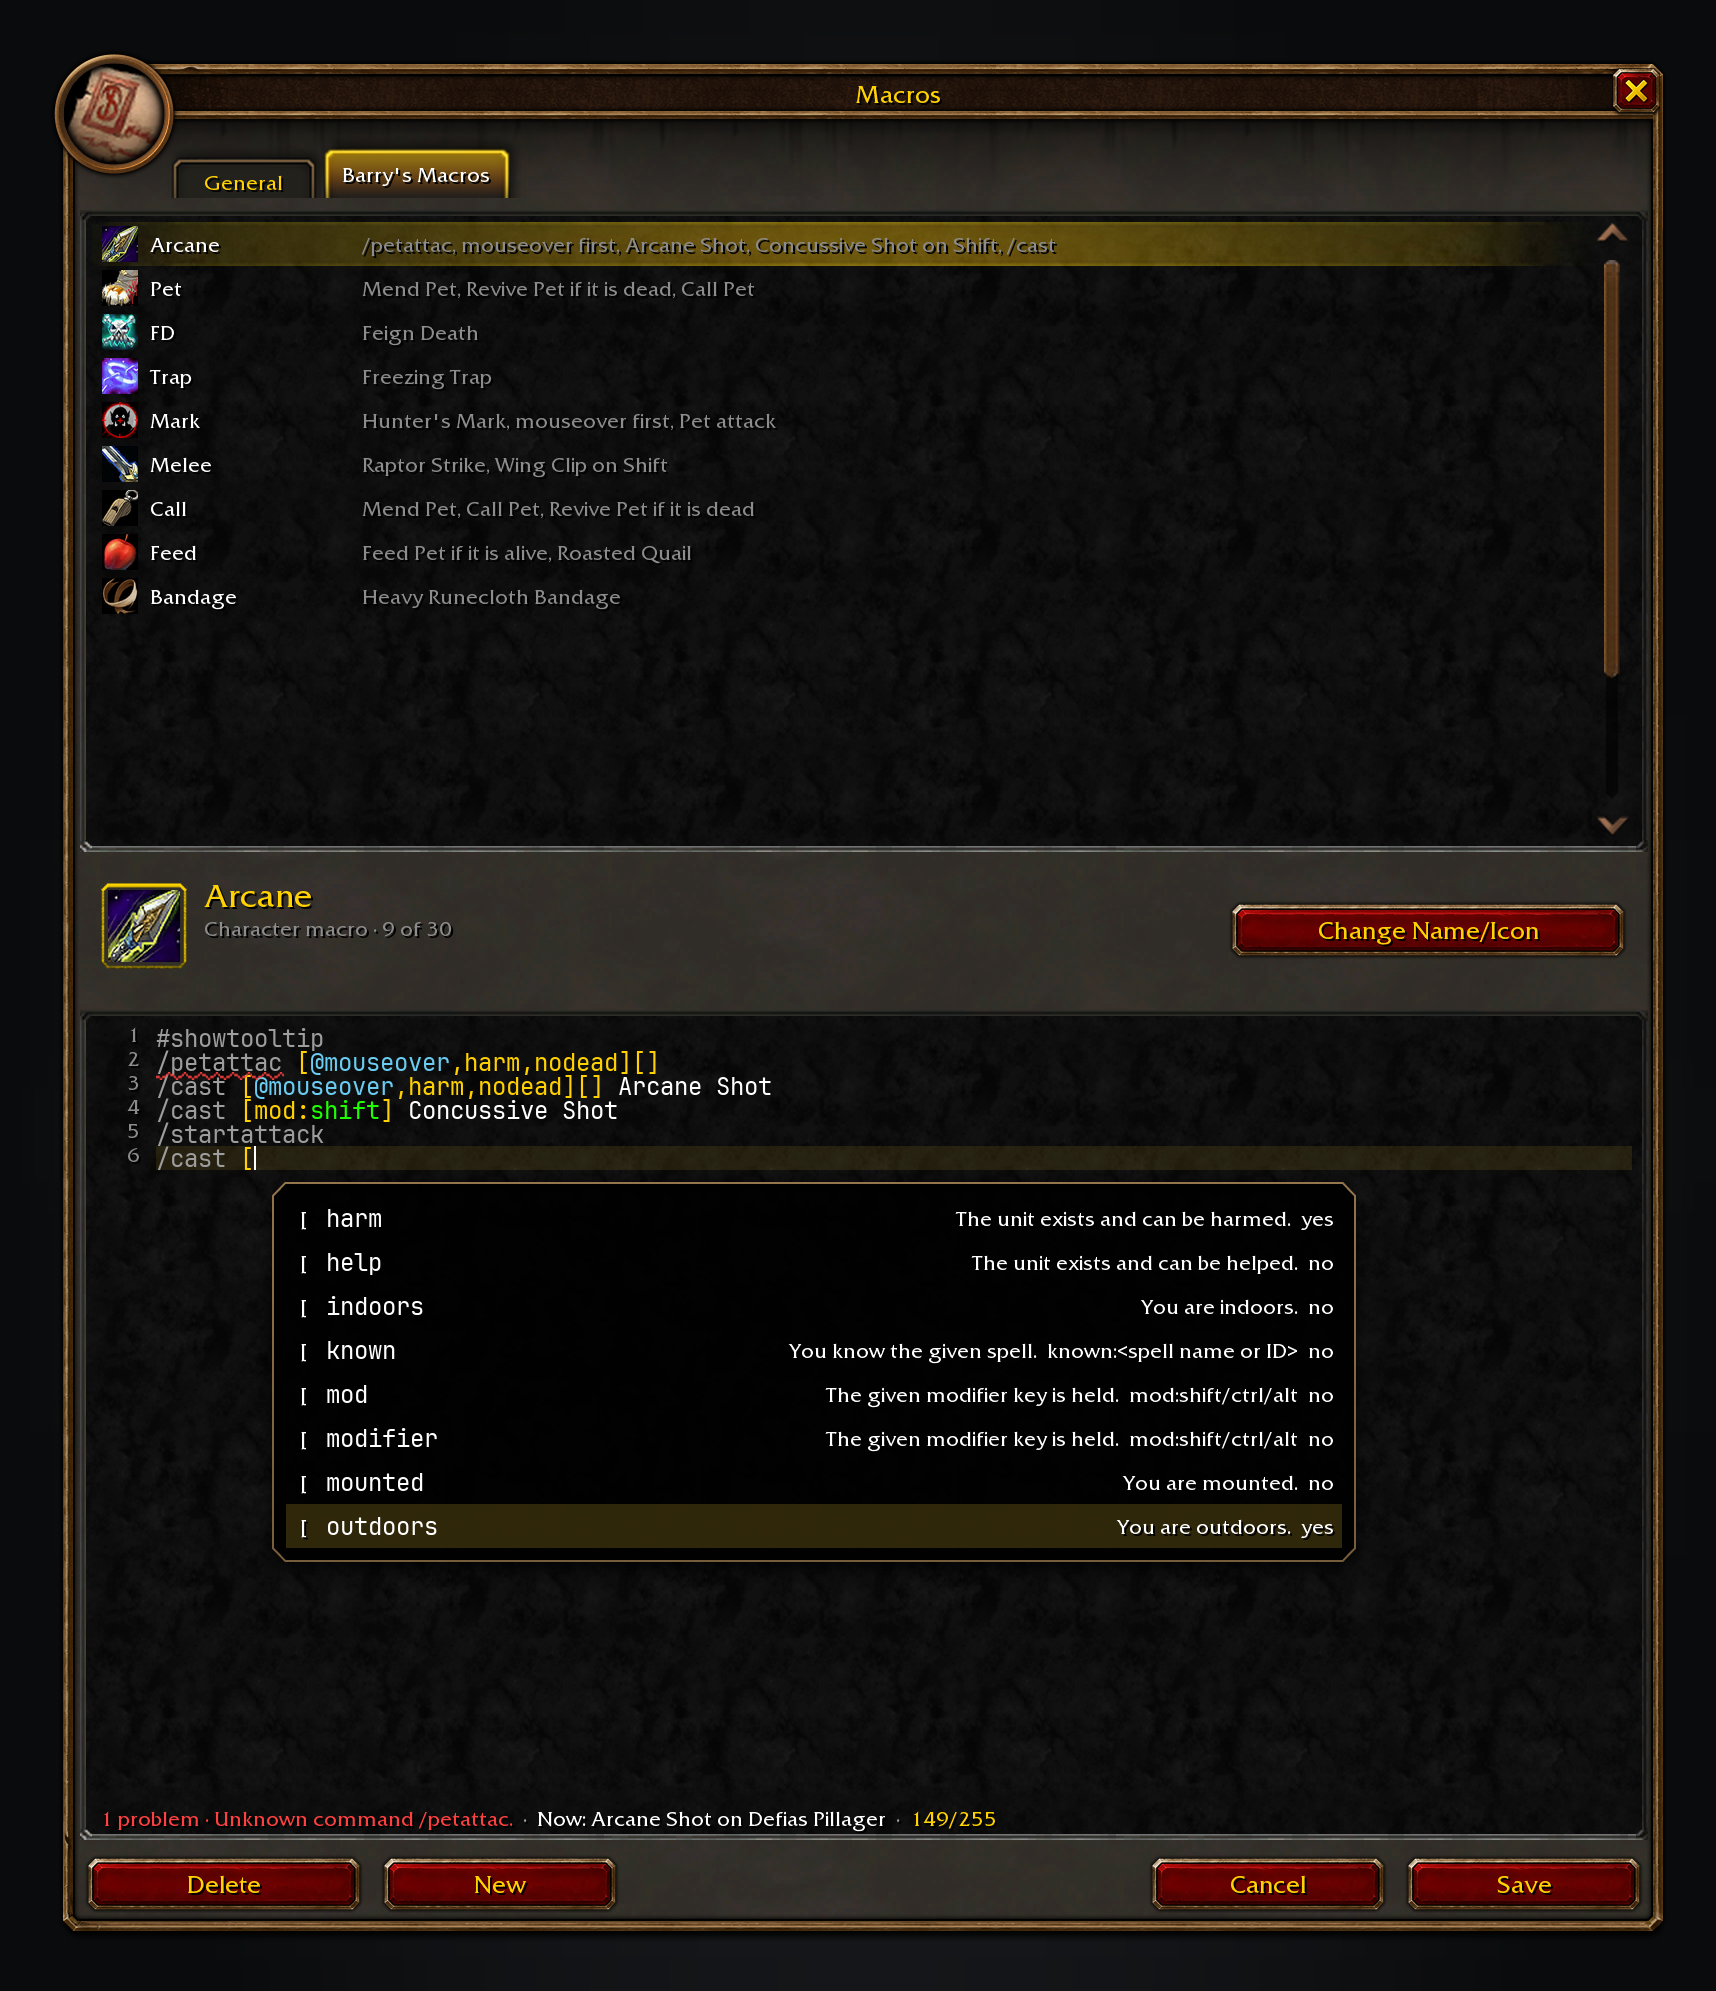
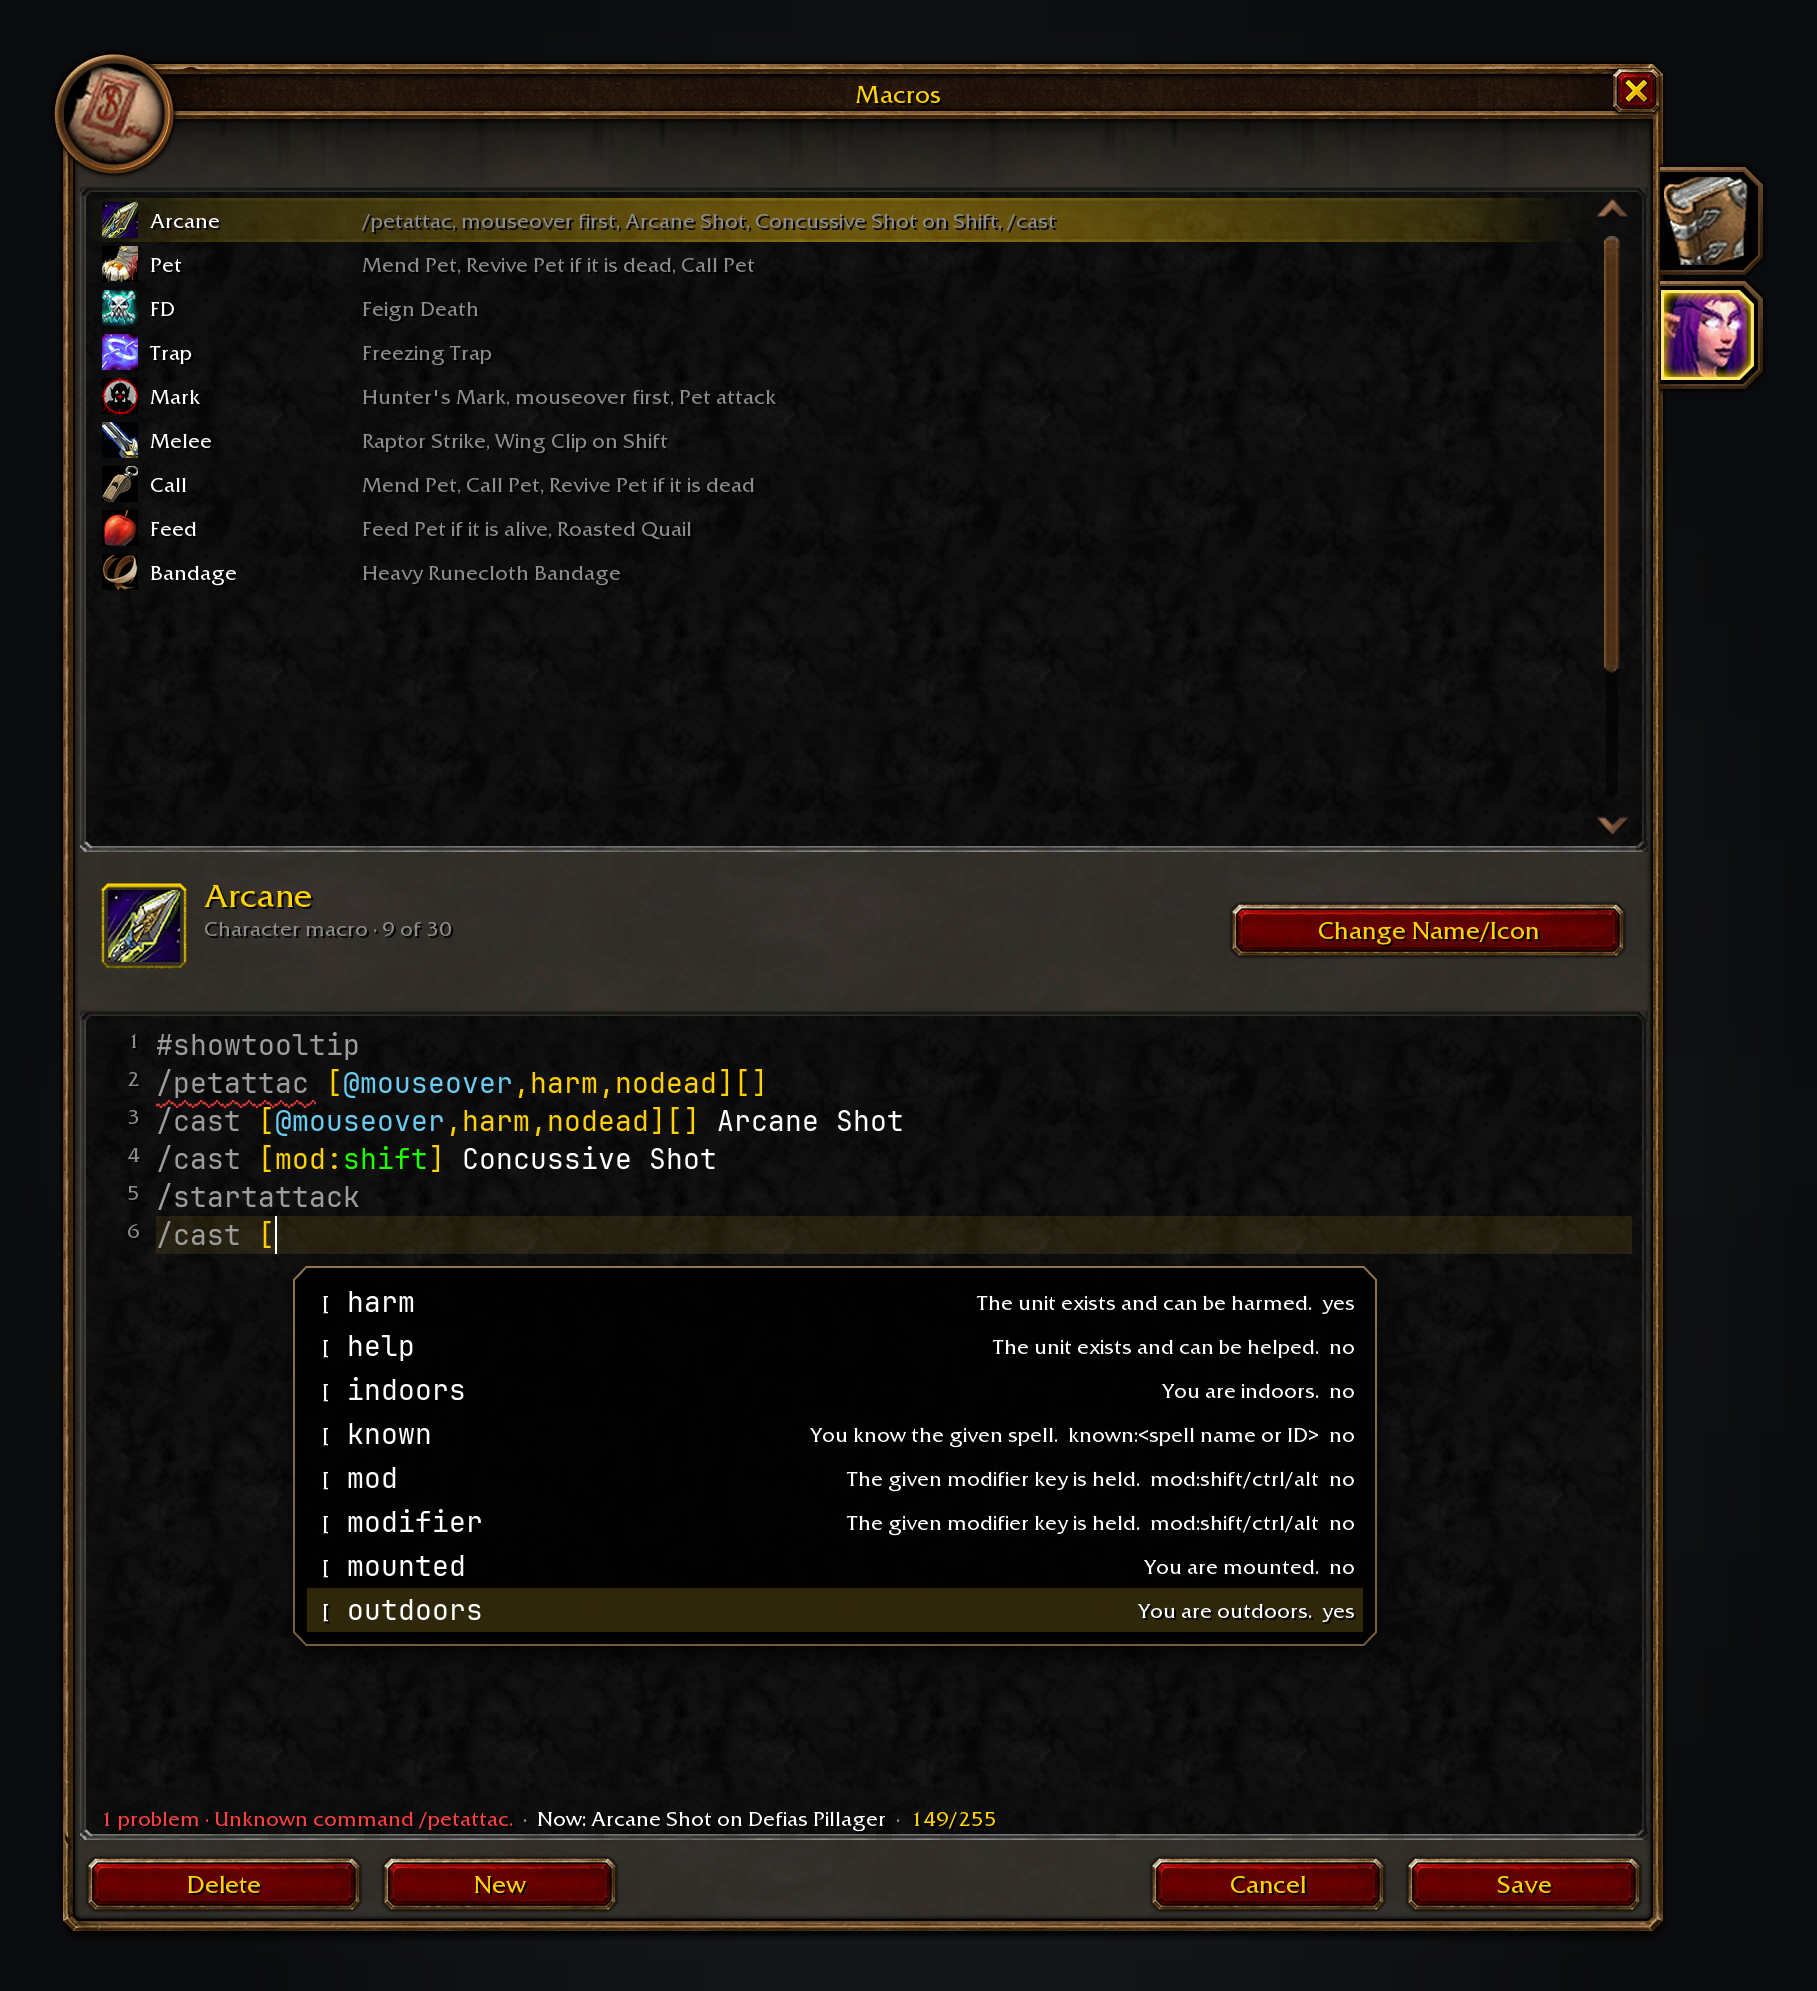
fix: visible caret, larger editor text, side tabs
- Draw our own blinking caret above the coloured overlay: the EditBox
  draws its caret in its transparent text colour, and the client has no
  caret colour API.
- Editor text 14 on 19-unit lines, one measured line pitch for overlay,
  gutter, caret, highlight, squiggles and popup.
- General and character tabs are LargeSideTabButtonTemplate tabs on the
  window's right edge; the character tab shows the player's portrait.

Closes #41
Closes #42
Closes #43

Claude-Session: https://claude.ai/code/session_01BVTqPzH4GDwiGwRjcXkoTF

Changed region(s): [[0.0309, 0.0311, 0.9883, 0.9965], [0.4633, 0.0311, 0.5559, 0.0623]]

diff --git a/tools/screenshots.py b/tools/screenshots.py
@@ -44,10 +44,11 @@ WINDOW_WIDTH = number("WINDOW_WIDTH")
 WINDOW_HEIGHT = number("WINDOW_HEIGHT")
 INSET_LEFT = number("INSET_LEFT")
 INSET_RIGHT = number("INSET_RIGHT")
-TAB_LEFT = number("TAB_LEFT")
-TAB_TOP = number("TAB_TOP")
 LIST_TOP = number("LIST_TOP")
 LIST_HEIGHT = number("LIST_HEIGHT")
+SIDE_TAB_EDGE = number("SIDE_TAB_EDGE")
+SIDE_TAB_TOP = number("SIDE_TAB_TOP")
+SIDE_TAB_GAP = number("SIDE_TAB_GAP")
 HEADER_HEIGHT = number("HEADER_HEIGHT")
 GAP = number("GAP")
 BOTTOM_OFFSET = number("BOTTOM_OFFSET")
@@ -68,9 +69,9 @@ ROW_TEXT_RIGHT = 6
 SCROLL_GAP = number("SCROLL_GAP")
 SCROLL_WIDTH = number("SCROLL_WIDTH")
 ICON_TEXCOORD = texcoord("ICON_TEXCOORD")
-TOP_TAB_HEIGHT_PERCENT = 0.75  # PanelTopTabButtonMixin:OnLoad keeps the lower 75% of the tab art.
-TOP_TAB_CROP = 1 - TOP_TAB_HEIGHT_PERCENT
 FONT_SIZE = number("FONT_SIZE", EDITOR)
+LINE_SPACING = number("LINE_SPACING", EDITOR)
+LINE_HEIGHT = FONT_SIZE + LINE_SPACING  # one editor line: the font height plus the editor's SetSpacing
 GUTTER_WIDTH = number("GUTTER_WIDTH", EDITOR)
 TEXT_INSET_LEFT = number("TEXT_INSET_LEFT", EDITOR)
 TEXT_INSET_RIGHT = number("TEXT_INSET_RIGHT", EDITOR)
@@ -87,7 +88,6 @@ MAX_CHARACTER = 30
 
 X, Y = 24, 24
 MARGIN = 24
-LINE_HEIGHT = FONT_SIZE
 MONO = wowmock.Font(str(FONT_FILE), FONT_SIZE, wowmock.WHITE, None)
 MUTED = (0.55, 0.55, 0.55)
 WHITE = wowmock.WHITE
@@ -136,7 +136,6 @@ MACROS = [
 ]
 SELECTED = 0
 CURRENT_LINE = 1
-TAB_NAMES = ["General", "Barry's Macros"]
 TAB_SELECTED = 1
 
 # The completion scene: a short Hunter macro with one mistyped command on a line above the caret, and a new
@@ -347,52 +346,18 @@ def inset(canvas, x, y, w, h):
     wowmock.draw_nine_slice(canvas, wowmock.INSET_FRAME_LAYOUT, x, y, w, h)
 
 
-def top_tabs(canvas, x, top, names, selected):
-    """PanelTopTabButtonTemplate: the tab art's lower 75% flipped to hang upwards from the tab's bottom, so both
-    tabs keep their bottoms on one line; the selected tab only swaps to the active art and its text colour, while
-    PanelTemplates_SelectTab/DeselectTab move its text to (0, -4)/(0, -8)."""
-    bottom = top + 32
-    for index, name in enumerate(names):
-        active = index == selected
-        prefix = "uiframe-activetab" if active else "uiframe-tab"
-        left = canvas.ui.atlas(f"{prefix}-left")
-        right = canvas.ui.atlas(f"{prefix}-right")
-        middle = canvas.ui.atlas(f"_{prefix}-center")
-        font = FONTS["GameFontHighlightSmall" if active else "GameFontNormalSmall"]
-        width = max(canvas.text_width(name, font) + 20, 72)
-        height = left.height * TOP_TAB_HEIGHT_PERCENT
-        top_y = bottom - height
-        crop = round(left.image.height * TOP_TAB_CROP)
-        left_x = x + (-1 if active else -3)
-        right_x = x + width + (8 if active else 7) - right.width
-        canvas.draw(
-            left.image.crop((0, crop, left.image.width, left.image.height)),
-            left_x,
-            top_y,
-            left.width,
-            height,
-            flip_v=True,
-        )
-        canvas.draw(
-            right.image.crop((0, crop, right.image.width, right.image.height)),
-            right_x,
-            top_y,
-            right.width,
-            height,
-            flip_v=True,
-        )
-        canvas.draw(
-            middle.image.crop((0, crop, middle.image.width, middle.image.height)),
-            left_x + left.width,
-            top_y,
-            right_x - left_x - left.width,
-            height,
-            flip_v=True,
-        )
-        # ButtonText is anchored at the tab's centre; PanelTemplates_(De)SelectTab moves a top tab to -4 / -8.
-        centre = bottom - 16 + (4 if active else 8)
-        canvas.text(x, centre - 5, name, font, justify="CENTER", width=width, box_height=10)
-        x += width + 3
+SIDE_TABS = [
+    ("interface/icons/inv_misc_book_09.blp", "General"),
+    ("interface/characterframe/temporaryportrait-female-nightelf.blp", "Barry's Macros"),
+]
+
+
+def side_tabs(canvas, x, top, selected):
+    """LargeSideTabButtonTemplate on the window's outer right rail, as SkillUp anchors it: wowmock draws the native
+    common-sidetab art, its mask and the checked ring, and each tab stacks SIDE_TAB_GAP below the last."""
+    y = top
+    for index, (icon, _) in enumerate(SIDE_TABS):
+        y += wowmock.side_tab(canvas, x, y, icon, selected=index == selected) + SIDE_TAB_GAP
 
 
 def button(canvas, x, y, w, text, h=BUTTON_HEIGHT, state="normal"):
@@ -457,7 +422,8 @@ def line_geometry():
 def draw_editor(canvas, body, current_line, caret_column, data):
     editor_x, editor_y, editor_w, editor_h, gutter_x, gutter_y, text_x, text_y, text_w, _ = line_geometry()
     lines = body.split("\n")
-    advance = FONT_SIZE * 14 / 24  # JetBrains Mono's fixed advance at this size: 14 px over 24 px.
+    # The editor measures this run in game; measure the same run here rather than assuming the font's advance.
+    advance = canvas.text_width("M" * 32, MONO) / 32
     # The current-line highlight sits under the text, as the editor's BACKGROUND texture does.
     canvas.fill(
         text_x + TEXT_INSET_LEFT,
@@ -481,10 +447,11 @@ def draw_editor(canvas, body, current_line, caret_column, data):
         )
         highlighted = data["lines"].get(index + 1, line)
         canvas.text(text_x + TEXT_INSET_LEFT, top, highlighted, MONO, box_height=LINE_HEIGHT)
-    # The caret is the EditBox's own white line, above the coloured overlay.
+    # The caret is our own white line above the coloured overlay, placed at the measured column, one line tall.
     if caret_column is not None:
+        prefix = lines[current_line][:caret_column]
         canvas.fill(
-            text_x + TEXT_INSET_LEFT + caret_column * advance,
+            text_x + TEXT_INSET_LEFT + canvas.text_width(prefix, MONO),
             text_y + TEXT_INSET_TOP + current_line * LINE_HEIGHT,
             1,
             LINE_HEIGHT,
@@ -518,8 +485,9 @@ def locate(body, first, last):
 
 
 def draw_completion(canvas, completion, caret_column, text_x, text_y, text_w):
-    _, caret = completion[:2]
-    x = text_x + TEXT_INSET_LEFT + caret_column * (FONT_SIZE * 14 / 24)
+    lines, caret = completion[:2]
+    prefix = lines[caret][:caret_column]
+    x = text_x + TEXT_INSET_LEFT + canvas.text_width(prefix, MONO)
     y = text_y + TEXT_INSET_TOP + caret * LINE_HEIGHT + LINE_HEIGHT
     width = max(280, min(text_w, 560))
     rows = min(POPUP_ROWS, len(completion[2]))
@@ -650,30 +618,31 @@ def window(ui, *, body, current_line, caret_column, data, completion=None):
     button(canvas, X + 10 + DELETE_WIDTH + GAP, button_y, BUTTON_WIDTH, "New")
     button(canvas, X + WINDOW_WIDTH - 10 - BUTTON_WIDTH, button_y, BUTTON_WIDTH, "Save")
     button(canvas, X + WINDOW_WIDTH - 10 - BUTTON_WIDTH * 2 - GAP, button_y, BUTTON_WIDTH, "Cancel")
-    # The metal frame, portrait, title and close button sit over the contents; the tabs hang over its top edge.
+    # The metal frame, portrait, title and close button sit over the contents; the side tabs join its right rail.
     wowmock.portrait_frame_art(
         canvas, X, Y, WINDOW_WIDTH, WINDOW_HEIGHT, "interface/icons/inv_misc_note_01.blp", "Macros"
     )
-    top_tabs(canvas, X + TAB_LEFT, Y - TAB_TOP, TAB_NAMES, TAB_SELECTED)
+    # The side rail lies outside the window's own frame, so the scene grows to hold it.
+    side = ui.atlas("common-sidetab")
+    wide = ui.canvas(canvas.width + side.width, canvas.height)
+    wide.paste(canvas, 0, 0)
+    side_tabs(wide, X + WINDOW_WIDTH - SIDE_TAB_EDGE, Y + SIDE_TAB_TOP, TAB_SELECTED)
     # The popup is drawn last, over the editor text, as the editor's popup is in game.
     if completion:
-        draw_completion(canvas, completion, caret_column, text_x, text_y, text_w)
-    return canvas
+        draw_completion(wide, completion, caret_column, text_x, text_y, text_w)
+    return wide
 
 
-def tab_extent(ui):
-    """The two tabs' rects side by side: PanelTemplates_TabResize width plus the 3-unit gap the code sets."""
-    measure = ui.canvas(1, 1)
-    total = 3 * (len(TAB_NAMES) - 1)
-    for index, name in enumerate(TAB_NAMES):
-        font = FONTS["GameFontHighlightSmall" if index == TAB_SELECTED else "GameFontNormalSmall"]
-        total += max(measure.text_width(name, font) + 20, 72)
-    return total
+def side_tab_extent(ui):
+    """One rail rectangle over both stacked tabs: the native art's width and each visible tab's height."""
+    art = ui.atlas("common-sidetab")
+    return art.width, 2 * (art.height - 5) + SIDE_TAB_GAP
 
 
 def layout(ui):
     editor_x, editor_y, editor_w, editor_h, *_ = line_geometry()
     button_y = Y + WINDOW_HEIGHT - 8 - BUTTON_HEIGHT
+    rail_width, rail_height = side_tab_extent(ui)
     widgets = [
         {
             "name": "list",
@@ -720,10 +689,11 @@ def layout(ui):
         {
             "name": "tabs",
             "role": "tabs",
-            "x": X + TAB_LEFT,
-            "y": Y - TAB_TOP,
-            "w": tab_extent(ui),
-            "h": 32,
+            "edge": "right",
+            "x": X + WINDOW_WIDTH - SIDE_TAB_EDGE,
+            "y": Y + SIDE_TAB_TOP,
+            "w": rail_width,
+            "h": rail_height,
         },
     ]
     return {"frame": {"x": X, "y": Y, "w": WINDOW_WIDTH, "h": WINDOW_HEIGHT}, "widgets": widgets}

diff --git a/tools/visual_audit.py b/tools/visual_audit.py
@@ -17,7 +17,14 @@ def main():
     for widget in widgets:
         x, y = widget["x"], widget["y"]
         right, bottom = x + widget["w"], y + widget["h"]
-        if x < frame["x"] or y < frame["y"] or right > frame["x"] + frame["w"] or bottom > frame["y"] + frame["h"]:
+        inside = x >= frame["x"] and y >= frame["y"] and bottom <= frame["y"] + frame["h"]
+        # A side rail belongs on the frame's outer right edge (docs/ui-composition.md): it starts inside the
+        # frame and runs past it, so only its vertical bounds must stay within the frame.
+        if widget.get("edge") == "right":
+            inside = inside and x < frame["x"] + frame["w"]
+        else:
+            inside = inside and right <= frame["x"] + frame["w"]
+        if not inside:
             errors.append(f"{widget['name']} lies outside the frame")
     interactive = [widget for widget in widgets if widget["role"] in {"button", "tabs", "input"}]
     for index, first in enumerate(interactive):

diff --git a/CHANGELOG.md b/CHANGELOG.md
@@ -5,6 +5,13 @@ All notable changes to Macro Assist Forever are documented here. The format is b
 
 ## [Unreleased]
 
+- **The editor shows a caret again.** A white caret sits at the insert position and blinks while the editor has focus, so
+  you can see where typing goes.
+- **Editor text is larger and its lines have room to breathe.** Macro text is now 14 units on 19-unit lines, still in
+  the same window, and a 255-character macro still fits without scrolling.
+- **The General and character tabs are square tabs on the window's right edge.** General shows a book and the
+  character tab shows your own portrait, and the list now starts higher, in the space the old tabs floated above.
+
 ## [0.1.1] - 2026-11-10
 
 - **Spells behind a spellbook flyout now count as yours.** Call Pet, Aspect and the other spells inside a flyout
